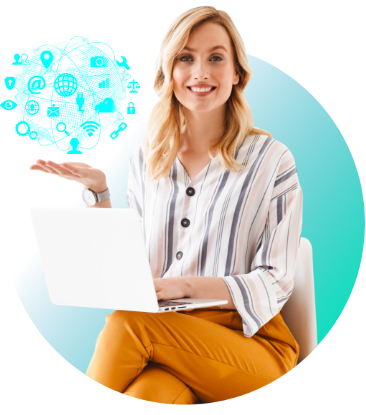
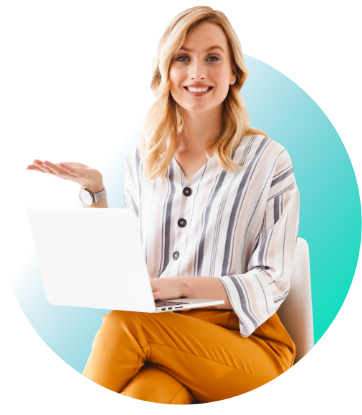
Ajuste de portada

diff --git a/src/styles/_custom.sass b/src/styles/_custom.sass
@@ -17,11 +17,15 @@ a
   border-radius: 0px !important
 .banner-principal__img
   width: auto
-.banner-principal__row::after
+.banner-principal__img:after
+  content: ''
   position: absolute
-  width: 80px
-  height: 80px
-  background-color: #fff
+  top: 11%
+  width: 11%
+  height: 23%
+  background-image: url('../assets/curso/t0-i0.png')
+  background-color: transparent
+  background-repeat: no-repeat
   z-index: 3
 figcaption
   font-weight: 400
